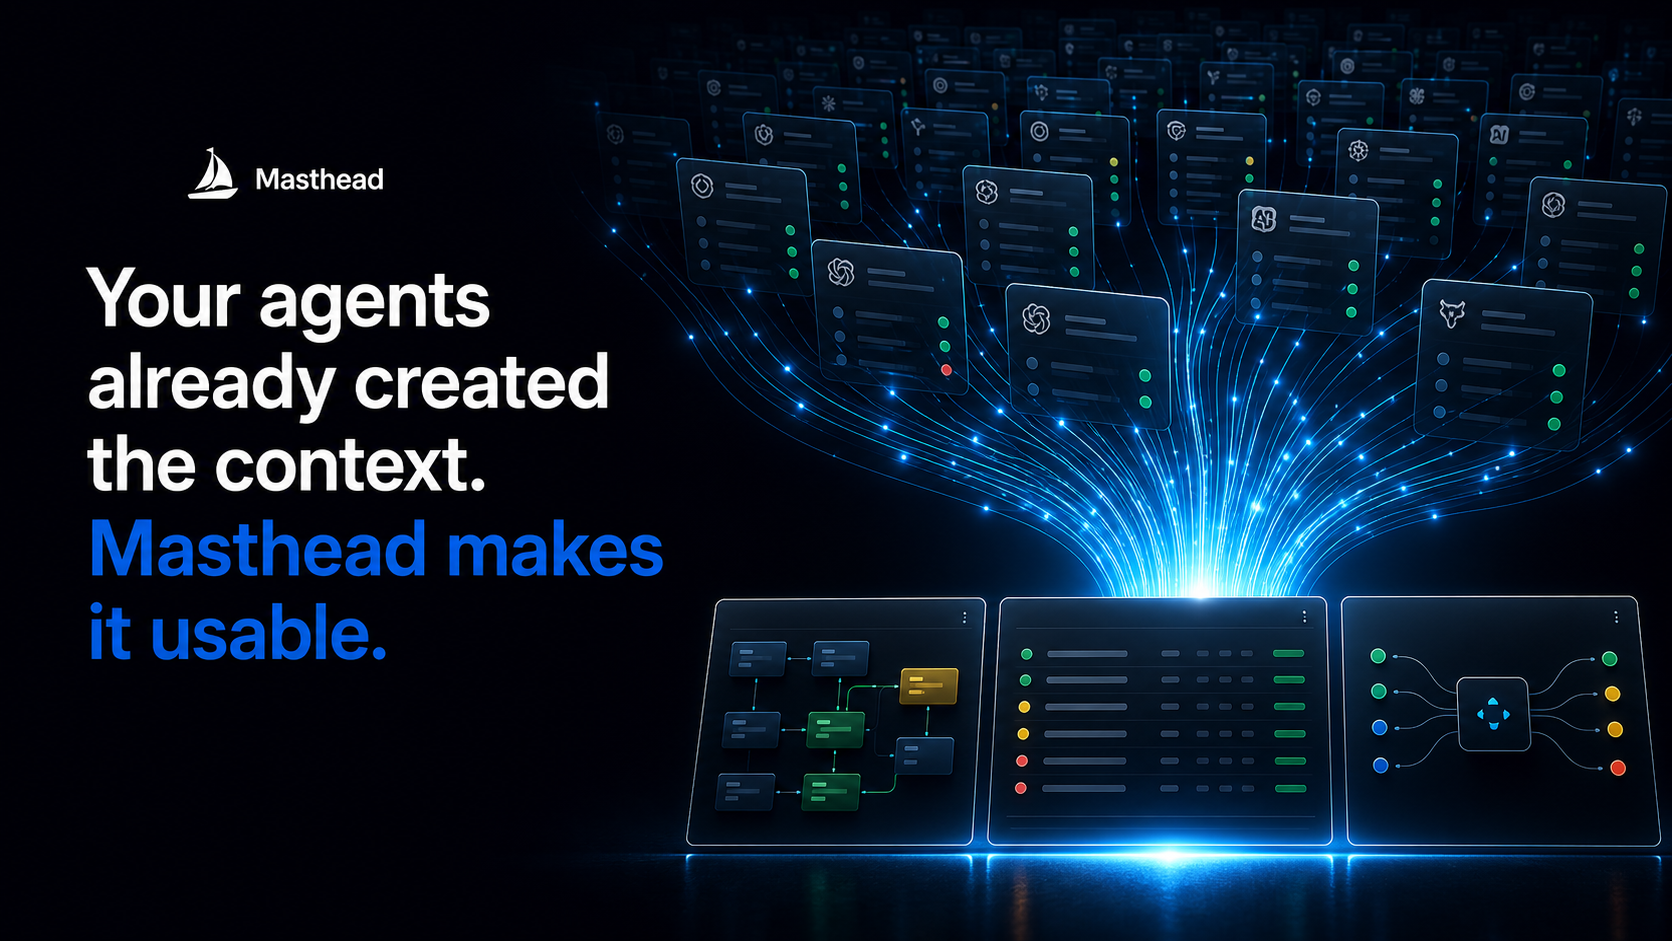
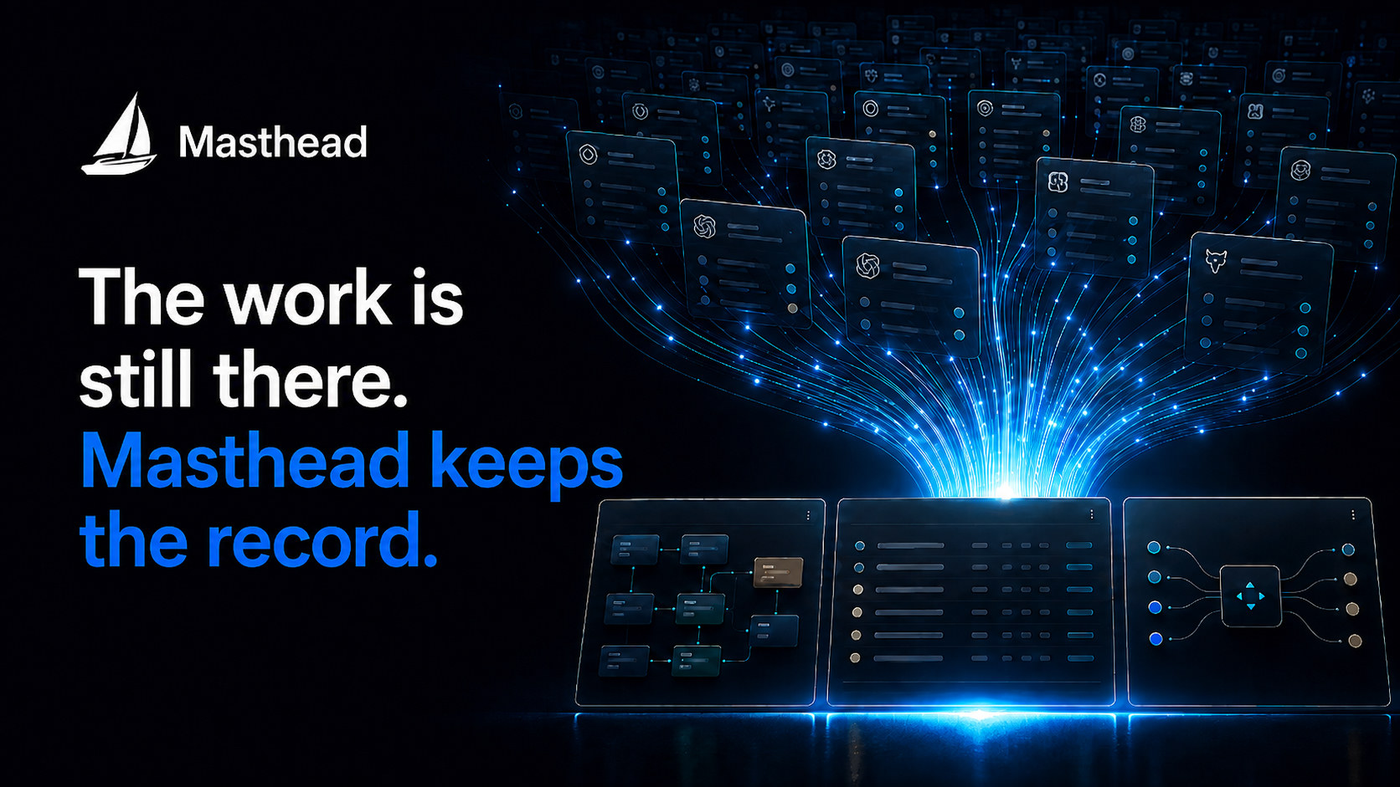
content: refresh Masthead card art and accurate product copy
Replace portfolio Masthead image and drop Tauri/session-memory
framing for the current local-first session data layer story.

diff --git a/press.html b/press.html
@@ -98,7 +98,7 @@
           "name": "Masthead",
           "url": "https://usemasthead.com",
           "applicationCategory": "DeveloperApplication",
-          "description": "Masthead is a local-first session memory layer for AI-agent work with searchable history, live context, read-only MCP retrieval, SQLite-backed storage, and a Tauri/TypeScript app surface.",
+          "description": "Masthead is a local-first session data layer for AI coding agents with SQLite-backed capture, Workbench publishing, Logbook artifacts, and read-only MCP retrieval. Electron app for macOS and Linux.",
           "creator": {
             "@id": "https://tylermayberry.dev/#tyler-mayberry"
           },
@@ -676,7 +676,7 @@
                     <article class="project">
                         <span>Flagship product build</span>
                         <h3>Masthead</h3>
-                        <p>Masthead is a local-first session memory layer for AI-agent work with searchable history, live context, read-only MCP retrieval, SQLite-backed storage, and a Tauri/TypeScript app surface.</p>
+                        <p>Masthead is a local-first session data layer for AI coding agents with SQLite-backed capture, Workbench publishing, Logbook artifacts, and read-only MCP retrieval. Electron app for macOS and Linux.</p>
                         <p><a href="https://usemasthead.com" target="_blank" rel="noopener noreferrer">Product site</a> | <a href="https://animasai.co/masthead.html" target="_blank" rel="noopener noreferrer">Case study</a></p>
                     </article>
                     <article class="project">

diff --git a/index.html b/index.html
@@ -762,7 +762,7 @@
                 <article class="project featured">
                     <a class="cover-link" href="https://usemasthead.com" target="_blank" rel="noopener noreferrer" aria-label="Open Masthead"></a>
                     <div class="project-media">
-                        <img src="Masthead.png" alt="Masthead product visual showing the interface preview" loading="eager">
+                        <img src="Masthead.png" alt="Masthead product art: the work is still there — keeps the record" loading="eager">
                     </div>
                     <div class="project-body">
                         <div class="project-meta">
@@ -771,7 +771,7 @@
                         </div>
                         <div>
                             <h3>Masthead</h3>
-                            <p>Local-first session memory for AI-agent work: searchable history, live context, and read-only MCP retrieval.</p>
+                            <p>Local-first session data layer for coding agents: capture work, publish artifacts, retrieve via read-only MCP.</p>
                         </div>
                         <span class="open">Open project →</span>
                     </div>

diff --git a/about.html b/about.html
@@ -614,7 +614,7 @@
                     <article class="proof">
                         <span>Flagship</span>
                         <h3>Masthead</h3>
-                        <p>A local-first session memory layer for AI-agent work with searchable history, live context, read-only MCP retrieval, SQLite-backed storage, and a Tauri/TypeScript app surface.</p>
+                        <p>A local-first session data layer for AI coding agents: capture harness work into SQLite, publish knowledge artifacts through Workbench, and retrieve them via read-only MCP. Electron desktop app for macOS and Linux.</p>
                         <a href="https://animasai.co/masthead.html" target="_blank" rel="noopener noreferrer">Open case study</a>
                     </article>
                     <article class="proof">
